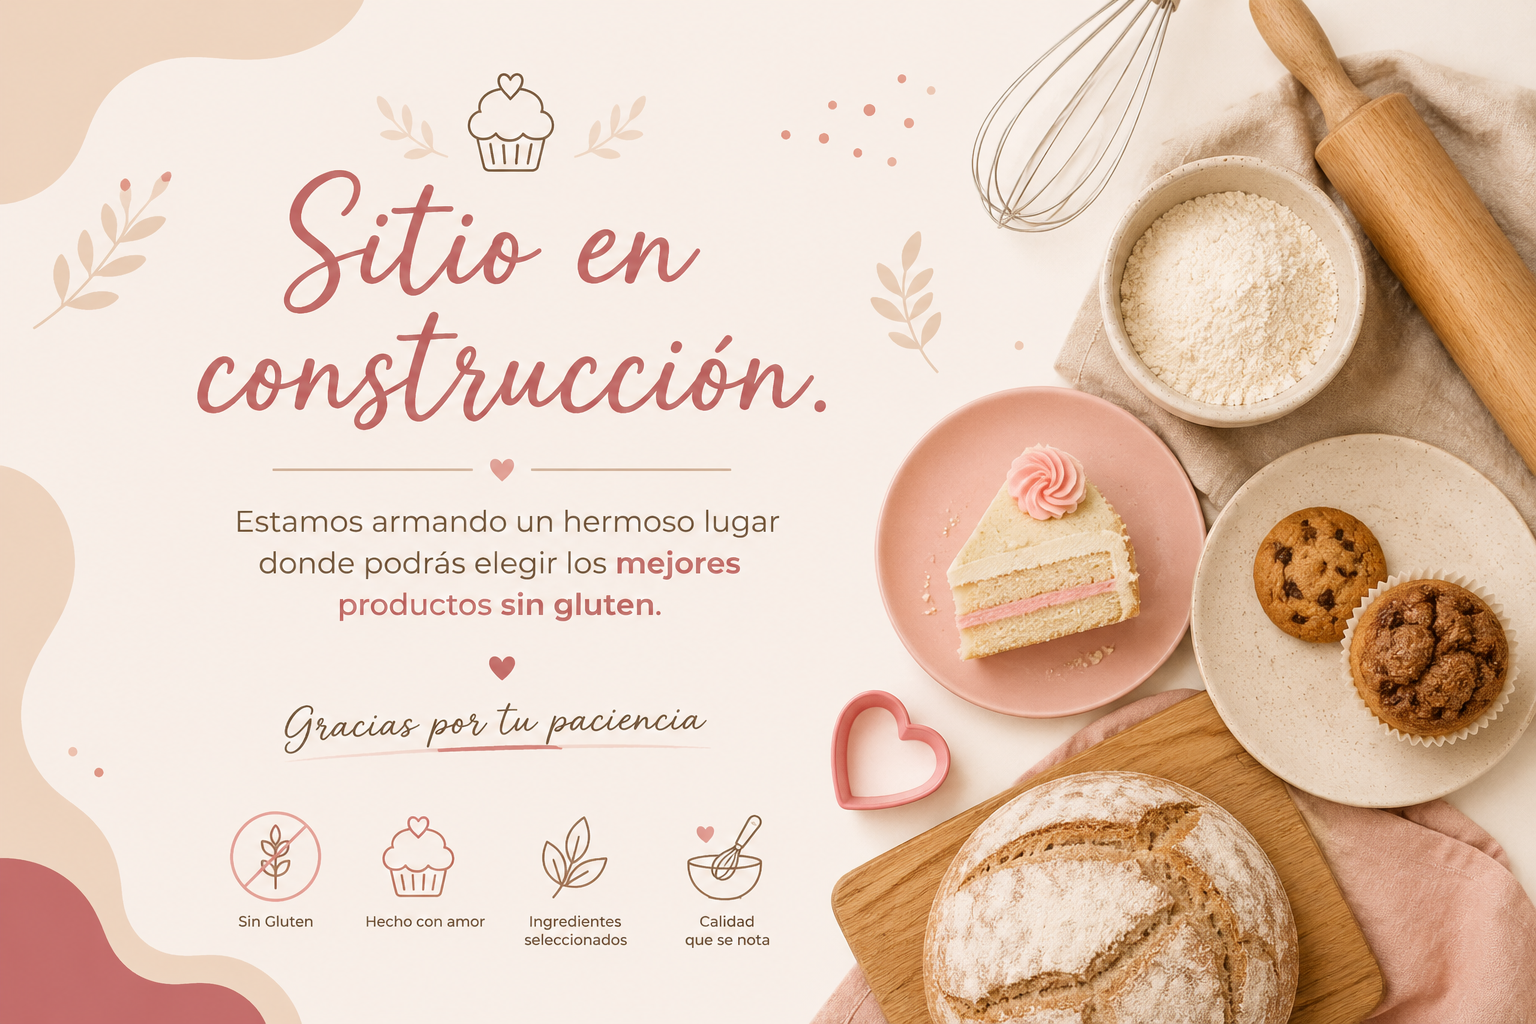
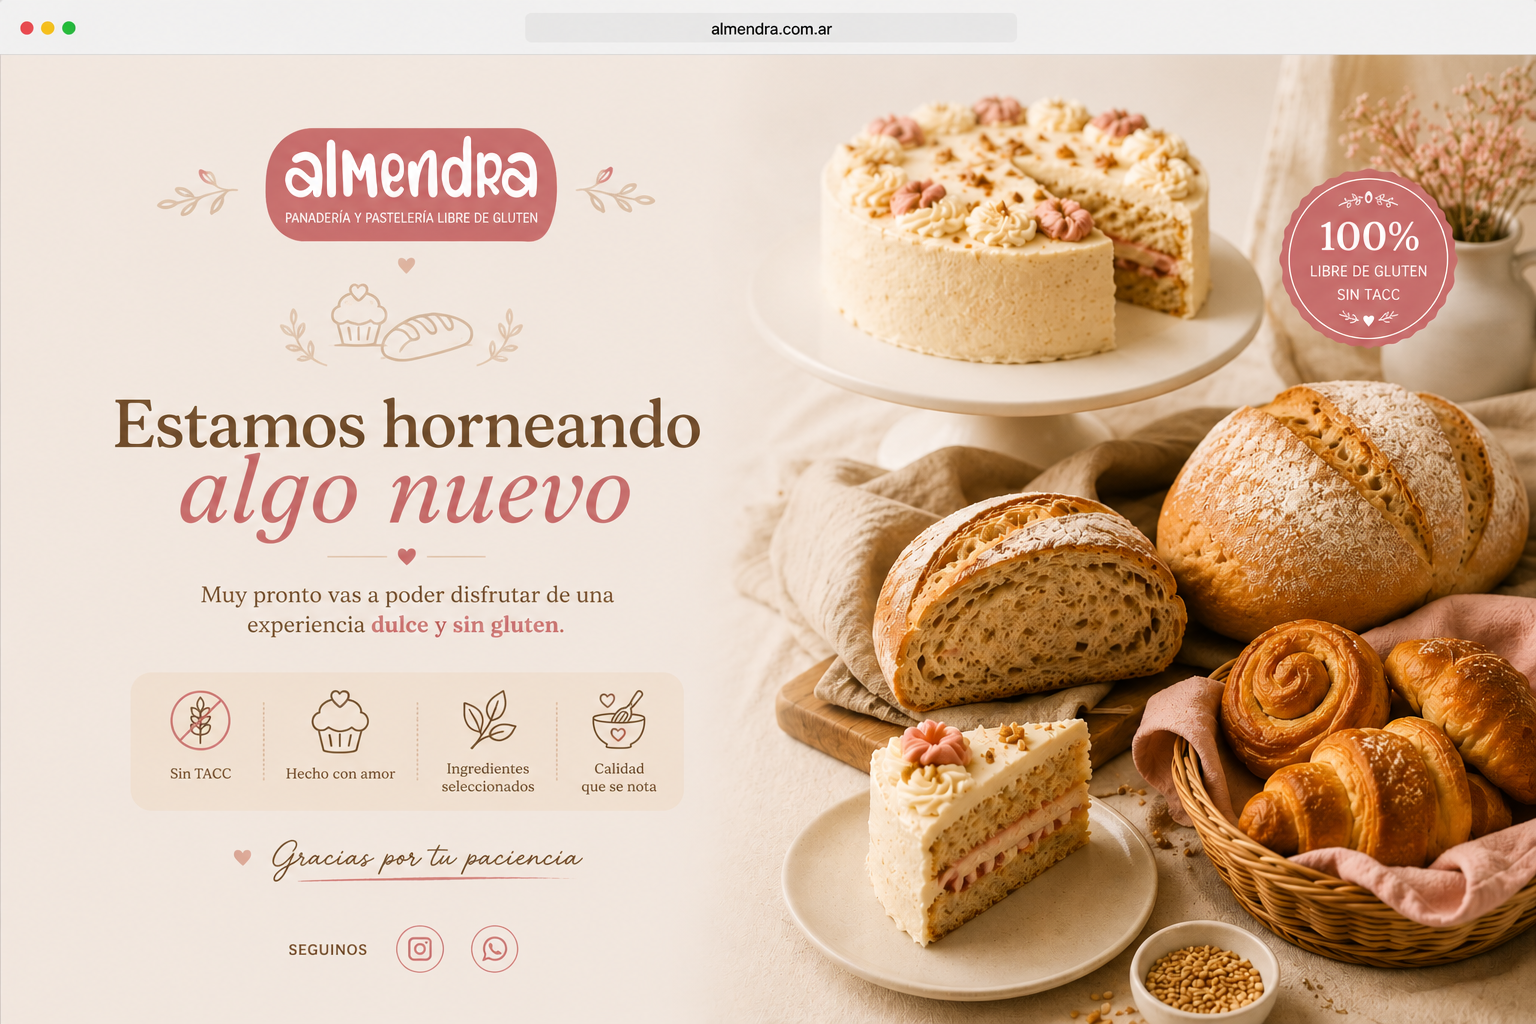
feat: nueva imagen coming soon con links a IG y WhatsApp

diff --git a/src/pages/ComingSoon/ComingSoon.module.css b/src/pages/ComingSoon/ComingSoon.module.css
@@ -6,10 +6,25 @@
   justify-content: center;
 }
 
+.imageWrapper {
+  position: relative;
+  width: 100%;
+  max-height: 100svh;
+  display: flex;
+}
+
 .image {
   width: 100%;
   height: auto;
   max-height: 100svh;
   object-fit: contain;
   display: block;
+}
+
+.hotspot {
+  position: absolute;
+  cursor: pointer;
+  border-radius: 50%;
+  /* descomentá para debuggear posición: */
+  /* background: rgba(255,0,0,0.3); */
 }

diff --git a/src/pages/ComingSoon/ComingSoon.jsx b/src/pages/ComingSoon/ComingSoon.jsx
@@ -1,9 +1,16 @@
 import styles from './ComingSoon.module.css'
 
+const IG_URL = 'https://www.instagram.com/almendra.glutenfree'
+const WA_URL = 'https://wa.me/543564349049'
+
 export default function ComingSoon() {
   return (
     <div className={styles.page}>
-      <img src="/images/coming-soon.png" alt="Almendra - Sitio en construcción" className={styles.image} />
+      <div className={styles.imageWrapper}>
+        <img src="/images/coming-soon.png" alt="Almendra - Próximamente" className={styles.image} />
+        <a href={IG_URL} target="_blank" rel="noopener noreferrer" className={styles.hotspot} style={{ left: '31%', top: '87%', width: '5%', height: '8%' }} aria-label="Instagram" />
+        <a href={WA_URL} target="_blank" rel="noopener noreferrer" className={styles.hotspot} style={{ left: '38%', top: '87%', width: '5%', height: '8%' }} aria-label="WhatsApp" />
+      </div>
     </div>
   )
 }